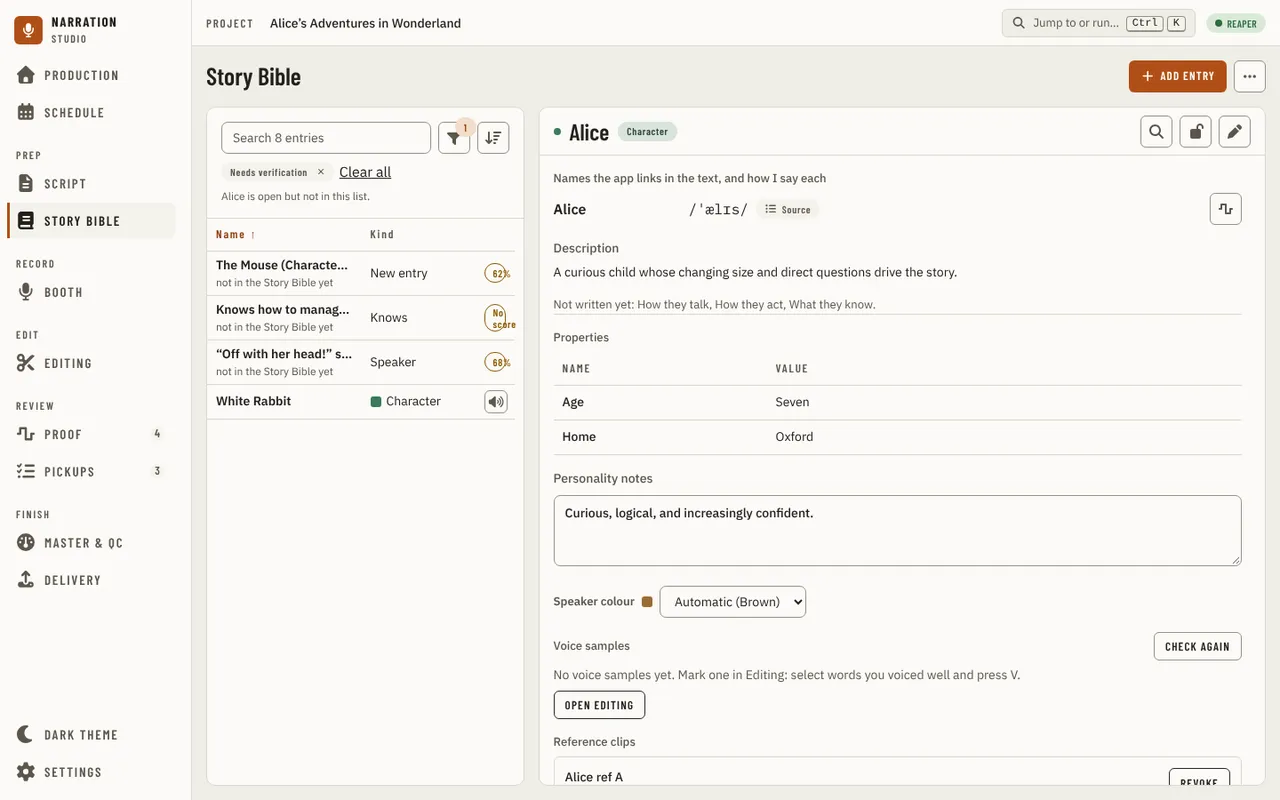
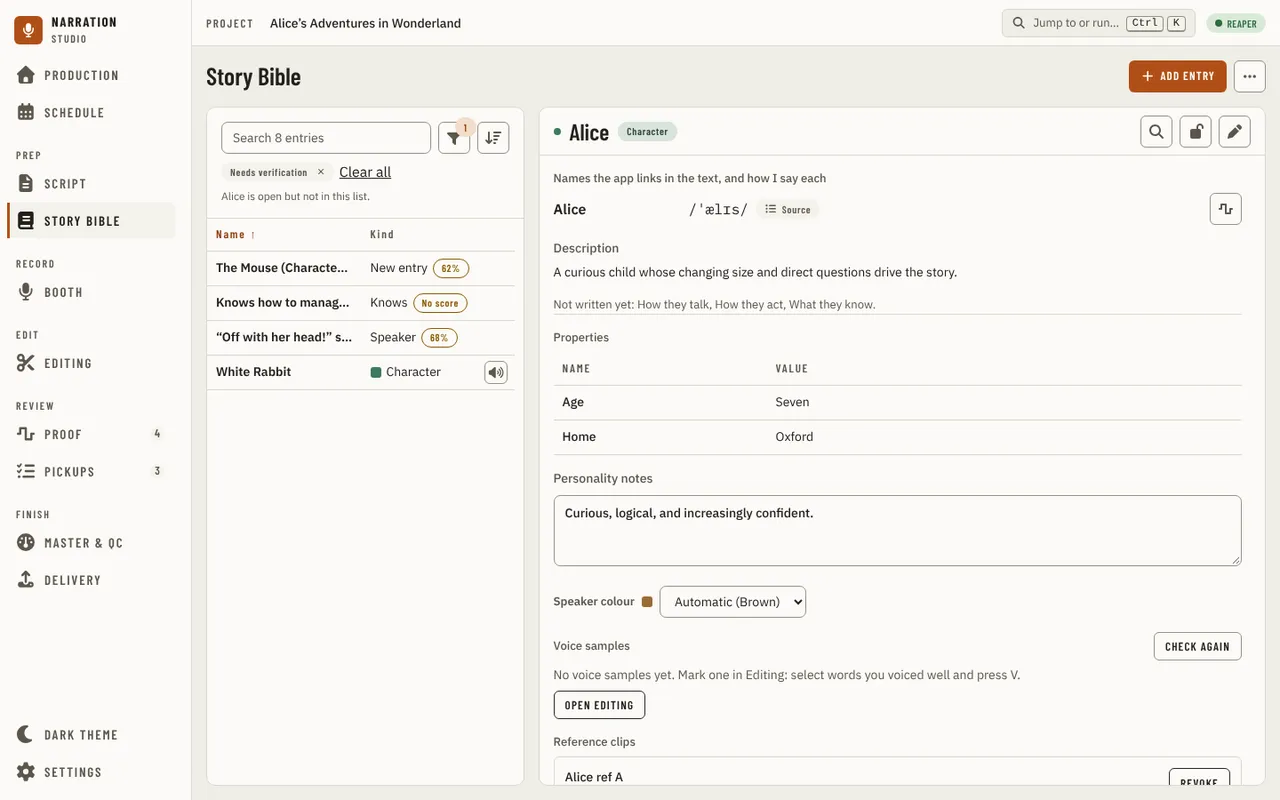
fix(storybible): suggestion rows one entry row high, suggestion card titled by its kind (#2423)

Changed region(s): [[0.1562, 0.3125, 0.4062, 0.5312]]

diff --git a/src/studio/ui/src/components/storybible/suggested/row/SuggestionRow.tsx b/src/studio/ui/src/components/storybible/suggested/row/SuggestionRow.tsx
@@ -87,46 +87,49 @@ export function SuggestionRow({ suggestion, sources, context, onGoToEvidence, li
           ) : (
             <span className="min-w-0 flex-1 basis-48 text-sm break-words">{summaryOf(suggestion.payload)}</span>
           )}
-          <ConfidenceChip suggestion={suggestion} context={context} />
-          <span className="inline-flex gap-1.5">
-            {editing ? (
-              <>
-                <IconButton action="saveAndAccept" size="sm" pending={busy} data-sug-save onClick={save} />
-                <IconButton action="cancelEdit" size="sm" onClick={() => setEditing(false)} />
-              </>
-            ) : (
-              <>
-                {verify ? (
-                  <IconButton action="accept" size="sm" pending={busy} data-sug-accept onClick={() => void decide(() => decisions.accept(suggestion.id))} />
-                ) : (
+          {/* The confidence and the decisions are one group at the card's end, at one gap, the mock's 36 px buttons (SBX-14). */}
+          <span className="ml-auto inline-flex items-center gap-2">
+            <ConfidenceChip suggestion={suggestion} context={context} />
+            <span className="inline-flex gap-1.5">
+              {editing ? (
+                <>
+                  <IconButton action="saveAndAccept" pending={busy} data-sug-save onClick={save} />
+                  <IconButton action="cancelEdit" onClick={() => setEditing(false)} />
+                </>
+              ) : (
+                <>
+                  {verify ? (
+                    <IconButton action="accept" pending={busy} data-sug-accept onClick={() => void decide(() => decisions.accept(suggestion.id))} />
+                  ) : (
+                    <IconButton
+                      action="markReviewed"
+                      label="Mark this suggestion reviewed"
+
+                      pending={busy}
+                      data-sug-reviewed
+                      onClick={() => void decide(() => decisions.review(suggestion.id))}
+                    />
+                  )}
                   <IconButton
-                    action="markReviewed"
-                    label="Mark this suggestion reviewed"
-                    size="sm"
-                    pending={busy}
-                    data-sug-reviewed
-                    onClick={() => void decide(() => decisions.review(suggestion.id))}
+                    action="editSuggestion"
+
+                    data-sug-edit
+                    onClick={() => {
+                      setText(editableText(suggestion.payload));
+                      setEditing(true);
+                    }}
                   />
-                )}
-                <IconButton
-                  action="editSuggestion"
-                  size="sm"
-                  data-sug-edit
-                  onClick={() => {
-                    setText(editableText(suggestion.payload));
-                    setEditing(true);
-                  }}
-                />
-                <IconButton
-                  action="reject"
-                  variant="danger"
-                  size="sm"
-                  pending={busy}
-                  data-sug-reject
-                  onClick={() => void decide(() => decisions.reject(suggestion.id))}
-                />
-              </>
-            )}
+                  <IconButton
+                    action="reject"
+                    variant="danger"
+
+                    pending={busy}
+                    data-sug-reject
+                    onClick={() => void decide(() => decisions.reject(suggestion.id))}
+                  />
+                </>
+              )}
+            </span>
           </span>
         </div>
         <Quotes suggestion={suggestion} onGoToEvidence={onGoToEvidence} lineLabel={lineLabel} />

diff --git a/src/studio/ui/tests/visual/storybible-suggestions.spec.ts b/src/studio/ui/tests/visual/storybible-suggestions.spec.ts
@@ -1,0 +1,60 @@
+import { expect, test, type Locator, type Page } from '@playwright/test';
+import { storybibleDrivers } from './drivers/storybible';
+import { settlePage } from './helpers/settle';
+
+// Suggestions (alignment audit SBX-14, SBX-17, SBX-22, R3SB1-4, R3SB2-7): a suggestion's list row is an entry row's height with its score
+// inside its own cell; the suggestion's card is titled like an entry, not by repeating its sentence; and a suggestion's decision buttons
+// are the 36 px icon buttons, right after its score.
+const SIZES = [
+  { name: 'desktop', width: 1440, height: 900 },
+  { name: 'small-desktop', width: 1024, height: 768 },
+  { name: 'tablet', width: 768, height: 1024 },
+];
+test.describe.configure({ timeout: 90_000 });
+
+type Box = { x: number; y: number; width: number; height: number };
+const box = async (locator: Locator): Promise<Box> => (await locator.boundingBox())!;
+
+async function load(page: Page, size: (typeof SIZES)[number], state: string) {
+  page.setDefaultTimeout(20_000);
+  await page.setViewportSize({ width: size.width, height: size.height });
+  await page.goto('/');
+  await settlePage(page);
+  await storybibleDrivers[state](page);
+}
+
+for (const size of SIZES) {
+  // loose-suggestion's driver leaves the pointer on the rail, which opens over the list in the 1024 icon rail, so it skips that width.
+  if (size.name !== 'small-desktop')
+    test(`Story Bible / a suggestion row and card match the entry's / ${size.name} ${size.width}x${size.height}`, async ({ page }) => {
+      await load(page, size, 'loose-suggestion');
+      const table = page.getByRole('table', { name: 'Story Bible entries' });
+      const loose = table.locator('[data-loose]');
+      const entry = table.locator('[data-entry-id]').first();
+      expect((await box(loose.first())).height, 'a suggestion row is an entry row’s height').toBeCloseTo((await box(entry)).height, 0);
+      for (let index = 0; index < (await loose.count()); index++) {
+        const cells = loose.nth(index).locator('td');
+        for (let cell = 0; cell < (await cells.count()); cell++) {
+          const overflow = await cells.nth(cell).evaluate((element) => element.scrollWidth - element.clientWidth);
+          expect(overflow, 'nothing spills out of a suggestion row’s cell').toBeLessThanOrEqual(0);
+        }
+      }
+      const panel = page.locator('section', { has: page.locator('[data-sug]') });
+      const heading = panel.getByRole('heading', { level: 2 });
+      const card = panel.locator('[data-sug]').first();
+      expect(await heading.evaluate((element) => getComputedStyle(element).fontSize), 'the card is titled at the entry’s size').toBe('26px');
+      const summary = (await card.locator('.basis-48').first().textContent())!.trim();
+      expect((await heading.textContent())!.trim(), 'the title does not repeat the suggestion').not.toBe(summary);
+    });
+
+  test(`Story Bible / a suggestion's decisions are 36 px, right after its score / ${size.name} ${size.width}x${size.height}`, async ({ page }) => {
+    await load(page, size, 'entry-suggestions');
+    const card = page.locator('[data-sug]').first();
+    await card.scrollIntoViewIfNeeded();
+    const reject = await box(card.locator('[data-sug-reject]'));
+    expect(reject.height, 'the decision buttons are 36 px').toBe(36);
+    const first = await box(card.locator('[data-sug-accept], [data-sug-reviewed]').first());
+    const score = await box(card.getByText(/\d+%|No score/).first());
+    expect(first.x - (score.x + score.width), 'the buttons follow the score').toBeLessThanOrEqual(8);
+  });
+}

diff --git a/src/studio/ui/src/components/storybible/suggested/import/import.test.tsx b/src/studio/ui/src/components/storybible/suggested/import/import.test.tsx
@@ -145,7 +145,7 @@ describe('reads-a-chosen-file-with-a-size-precheck', () => {
   it('refuses a file over the host limit before reading it', async () => {
     render(wrap(<ImportDialog onClose={vi.fn()} />));
     const prompts = await api.extractionImportPrompt('json');
-    await waitFor(() => expect(screen.getByRole('button', { name: 'Copy the prompt for your own LLM' })).toBeTruthy());
+    await waitFor(() => expect(screen.getByRole('button', { name: 'Copy prompt' })).toBeTruthy());
     await act(async () => void (await new Promise((r) => setTimeout(r, 20))));
     const big = new File(['{}'], 'big.json');
     Object.defineProperty(big, 'size', { value: prompts.maxBytes + 1 });
@@ -203,7 +203,7 @@ describe('copies-the-prompt-and-the-example', () => {
     const csvPrompt = await api.extractionImportPrompt('csv');
     const jsonPrompt = await api.extractionImportPrompt('json');
     render(wrap(<ImportDialog onClose={vi.fn()} />));
-    const copy = screen.getByRole('button', { name: 'Copy the prompt for your own LLM' });
+    const copy = screen.getByRole('button', { name: 'Copy prompt' });
     await waitFor(async () => {
       await userEvent.click(copy);
       expect(written.length).toBeGreaterThan(0);
@@ -221,7 +221,7 @@ describe('copies-the-prompt-and-the-example', () => {
     const toast = vi.spyOn(overlay, 'toast');
     render(wrap(<ImportDialog onClose={vi.fn()} />));
     await act(async () => void (await new Promise((r) => setTimeout(r, 20))));
-    await userEvent.click(screen.getByRole('button', { name: 'Copy the prompt for your own LLM' }));
+    await userEvent.click(screen.getByRole('button', { name: 'Copy prompt' }));
     await waitFor(() => expect(toast).toHaveBeenCalledWith('Copy failed.', { tone: 'error' }));
   });
 });
@@ -234,7 +234,7 @@ describe('example-box-switches-format', () => {
     const written: string[] = [];
     Object.defineProperty(navigator, 'clipboard', { configurable: true, value: { writeText: (t: string) => (written.push(t), Promise.resolve()) } });
     render(wrap(<ImportDialog onClose={vi.fn()} />));
-    await u.click(screen.getByRole('button', { name: 'Show the format example' }));
+    await u.click(screen.getByRole('button', { name: 'Show example' }));
     const box = await screen.findByLabelText('Format example');
     expect(box.getAttribute('tabindex')).toBe('0');
     await waitFor(() => expect(box.textContent).toBe(json.example));
@@ -242,7 +242,7 @@ describe('example-box-switches-format', () => {
     expect(box.textContent).toBe(csv.example);
     await u.click(screen.getByRole('button', { name: 'Copy the example' }));
     await waitFor(() => expect(written).toEqual([csv.example]));
-    expect(screen.getByRole('button', { name: 'Hide the format example' }).getAttribute('aria-pressed')).toBe('true');
+    expect(screen.getByRole('button', { name: 'Hide example' }).getAttribute('aria-pressed')).toBe('true');
   });
 });
 

diff --git a/src/studio/ui/src/components/storybible/suggested/panel/LooseSuggestionRows.tsx b/src/studio/ui/src/components/storybible/suggested/panel/LooseSuggestionRows.tsx
@@ -5,7 +5,7 @@ import { kindLabel, pct, summaryOf } from '../row/selectors';
 
 /**
  * Suggestions with no entry in the Story Bible yet, as rows at the head of the entry table while the Needs verification chip is on: the
- * summary, what kind of suggestion it is, "not in the Story Bible yet" and a percent (or "No score"). Choosing one tells the page, which shows
+ * summary (its hint and its spoken name add "not in the Story Bible yet"), and what kind of suggestion it is with a percent (or "No score"). Choosing one tells the page, which shows
  * its row (`SuggestionList`).
  */
 export function LooseSuggestionRows({
@@ -30,15 +30,24 @@ export function LooseSuggestionRows({
           tabStop={tabStopId === suggestion.id}
           onActivate={() => onSelect(suggestion.id)}
         >
+          {/* One line like an entry row (the table counts every row as one 39 px row), the full summary as the hint; the score sits in the
+              Kind cell, which takes the Hear button's 26 px column too, where a pill overflowed (SBX-17, R3SB2-7). */}
           <TableCell>
-            <span dir="auto" className="block truncate font-semibold">
+            {/* `relative` makes the span the screen-reader text's containing block, so that absolutely placed text is clipped with the
+                truncated summary instead of standing at the end of the full one, past the cell, and scrolling the page sideways. */}
+            <span dir="auto" className="relative block truncate font-semibold" title={`${summaryOf(suggestion.payload)} (not in the Story Bible yet)`}>
               {summaryOf(suggestion.payload)}
+              <span className="sr-only"> (not in the Story Bible yet)</span>
             </span>
-            <span className="block truncate text-[0.75rem] text-[var(--text-muted)]">not in the Story Bible yet</span>
           </TableCell>
-          <TableCell>{kindLabel(suggestion.payload)}</TableCell>
-          <TableCell>
-            <StatusBadge tone="warning" look="outline" label={suggestion.confidence === null ? 'No score' : `${pct(suggestion.confidence)}%`} />
+          <TableCell colSpan={2}>
+            <span className="flex min-w-0 items-center gap-1.5">
+              {/* As an entry row's kind, which keeps only its dot in a narrow table: the score stays, the word is still read. */}
+              <span className="min-w-0 truncate @max-[20rem]:sr-only">{kindLabel(suggestion.payload)}</span>
+              <span className="flex-none whitespace-nowrap">
+                <StatusBadge tone="warning" look="outline" label={suggestion.confidence === null ? 'No score' : `${pct(suggestion.confidence)}%`} />
+              </span>
+            </span>
           </TableCell>
         </TableRow>
       ))}

diff --git a/src/studio/ui/src/components/storybible/Guide.tsx b/src/studio/ui/src/components/storybible/Guide.tsx
@@ -39,7 +39,7 @@ import { useSuggestions } from './suggested/panel/useSuggestions';
 import { openImportDialog } from './suggested/import/openImportDialog';
 import { AcceptedClaims } from './suggested/row/AcceptedClaims';
 import { SuggestionList } from './suggested/row/SuggestionList';
-import { reviewable, summaryOf, unattached, verifyCount, verifyOf } from './suggested/row/selectors';
+import { kindLabel as suggestionKind, reviewable, unattached, verifyCount, verifyOf } from './suggested/row/selectors';
 import { useStartScan } from './suggested/scan/useStartScan';
 import { GuideDetail, type EntryCommand } from './GuideDetail';
 import { ReadNotice } from './ReadNotice';
@@ -481,7 +481,9 @@ function GuideLoaded({ notify, goToManuscript }: Pick<GuideProps, 'notify' | 'go
             {!entriesRead ? (
               <GuideDetailSkeleton />
             ) : looseChosen ? (
-              <Panel title={summaryOf(looseChosen.payload)} scroll className="min-h-0 flex-1">
+              // Titled by the kind of suggestion, not its sentence, which the card below says once; the entry's header size, so the card
+              // does not change shape between an entry and a suggestion (R3SB1-4, SBX-22).
+              <Panel title={`Suggested ${suggestionKind(looseChosen.payload).toLowerCase()}`} titleStyle="entry" scroll className="min-h-0 flex-1">
                 <SuggestionList title="Suggested" suggestions={[looseChosen]} sources={found.sources} onChanged={decided} {...links} />
               </Panel>
             ) : (

diff --git a/src/studio/ui/src/components/storybible/suggested/import/ImportDialog.tsx b/src/studio/ui/src/components/storybible/suggested/import/ImportDialog.tsx
@@ -4,6 +4,7 @@ import { overlay } from '../../../../overlay/overlayService';
 import { usePort } from '../../../../ports/usePort';
 import { useJournal } from '../../../../studio/StudioProvider';
 import { Button } from '../../../primitives/Button';
+import { Icon } from '../../../primitives/Icon';
 import { Heading } from '../../../primitives/Heading';
 import { IconButton } from '../../../primitives/IconButton';
 import { SectionLabel } from '../../../primitives/SectionLabel';
@@ -267,8 +268,15 @@ export function ImportDialog({ onClose, onChanged }: ImportDialogProps) {
             </span>
           )}
           <span className="flex-1" />
-          <IconButton action="copyPrompt" onClick={copyPrompt} />
-          <IconButton action={showExample ? 'hideExample' : 'showExample'} aria-pressed={showExample} onClick={() => setShowExample(!showExample)} />
+          {/* Words, not two bare icons at the row's end (R3SB1-13): what each does is on the button. */}
+          <Button variant="secondary" onClick={copyPrompt}>
+            <Icon name="copyPrompt" />
+            Copy prompt
+          </Button>
+          <Button variant="secondary" aria-pressed={showExample} onClick={() => setShowExample(!showExample)}>
+            <Icon name={showExample ? 'hideExample' : 'showExample'} />
+            {showExample ? 'Hide example' : 'Show example'}
+          </Button>
         </div>
         {fileProblem && (
           <p role="alert" className="text-sm" style={DANGER}>

diff --git a/src/studio/ui/src/components/storybible/suggested/panel/panel.stories.tsx b/src/studio/ui/src/components/storybible/suggested/panel/panel.stories.tsx
@@ -44,11 +44,14 @@ function Loose({ pick }: { pick?: boolean }) {
   if (!list) return null;
   return (
     <Surface>
-      <Table label="Suggestions with no entry yet">
-        <TableBody>
-          <LooseSuggestionRows suggestions={list} selectedId={pick ? (chosen ?? list[0]?.id ?? null) : chosen} onSelect={setChosen} />
-        </TableBody>
-      </Table>
+      {/* The entry table's fixed columns (Name, Kind, the Hear button) in its container, as the rows are drawn on the page. */}
+      <div className="@container">
+        <Table label="Suggestions with no entry yet" columns={['auto', '8rem', '2.75rem']}>
+          <TableBody>
+            <LooseSuggestionRows suggestions={list} selectedId={pick ? (chosen ?? list[0]?.id ?? null) : chosen} onSelect={setChosen} />
+          </TableBody>
+        </Table>
+      </div>
     </Surface>
   );
 }

diff --git a/src/studio/ui/src/components/storybible/suggested/import/import.stories.tsx b/src/studio/ui/src/components/storybible/suggested/import/import.stories.tsx
@@ -70,7 +70,7 @@ export const ExampleOpen: Story = {
   render: (args) => <Surface args={args} />,
   play: async ({ canvasElement }) => {
     const view = within(canvasElement);
-    await userEvent.click(view.getByRole('button', { name: 'Show the format example' }));
+    await userEvent.click(view.getByRole('button', { name: 'Show example' }));
     await userEvent.click(view.getByRole('button', { name: 'CSV' }));
     const box = await view.findByLabelText('Format example');
     await waitFor(() => expect(box.textContent).toContain('record,name'));

diff --git a/docs/design/design-system.md b/docs/design/design-system.md
@@ -141,6 +141,7 @@ The custom-CSS system (`.btn`, `.panel-head`/`.panel-body`, `.progressbar`, etc.
 - **Disabled interactive elements never show a hover affordance.** Use `disabled:pointer-events-none` (Tailwind) alongside `disabled:opacity-*`, not just the opacity change alone — a hover transform/background change that still fires on a disabled element reads as clickable when it isn't.
 - **The Story Bible entry's header follows `PanelHeader`'s layout** (`EntryFrame` in `storybible/GuideDetail.tsx`): the name block keeps a 12 rem basis so the actions wrap under it rather than the name and pills folding, the name, kind and status sit on one centred line, the pills never break a word, and the actions take 5 px of the padding so the header stays 50 px. In edit view the name box is as wide as the name (8 to 24 rem, `field-sizing: content`) with a resting `--border`, so the kind stays beside it and the box reads as a field (alignment audit SBX-6, SBX-7, R3SB1-10). Read-only, the kind is a plain pill, not a switched-off menu button (R3SB1-8); an entry the host could not type reads "Type not set", as in the list (SBX-21). Mark reviewed is a 36 px button like the icon buttons beside it. A save in progress shows "Saving…" before Save and marks the body `aria-busy`; the body is not dimmed, since dimmed text fails contrast (R3SB1-11). The loading skeleton draws the entry table's header strip and 39 px rows and the entry card's frame and header, so nothing moves when the entries arrive (SBX-19). When the search or filters leave out the open entry, a line under the filters says so (R3SB1-2).
 - **A field that is read-only, locked or not-yet-persisted is `disabled`, not hidden**, so the user can see what exists without being able to edit it. Story Bible entries open read-only and gain Edit/Save/Cancel controls only on request ([Story Bible](../guides/using-the-app/story-bible.md)); see `GuideDetail.tsx`.s `editingDisabled`.
+- **Story Bible suggestions** (`storybible/suggested/`): a suggestion with no entry yet is one line in the entry table, an entry row's 39 px height (the table counts rows of one height to draw only those in view), its summary truncated with the whole as its hint, and its kind and score in the Kind cell, which takes the Hear button's column too; in a narrow table the kind word is screen-reader only, as an entry's kind keeps only its dot (alignment audit SBX-17, R3SB2-7). Opened, its card is titled by its kind ("Suggested new entry") at the entry's 26 px, not by its sentence, which the card says once (R3SB1-4, SBX-22). A suggestion's score and decisions are one group at the card's end, the mock's 36 px buttons (SBX-14). The import dialog's prompt and example are labelled buttons, **Copy prompt** and **Show example**, where the mock draws two bare icons at the row's end (R3SB1-13).
 - **A grid inside a `SlideOver` never switches on a viewport breakpoint** (`sm:`, `min-[…]`): the panel is 20 rem wide at every window width, so a breakpoint put four `StatTile`s into 300 px on a wide window (alignment audit XPR2-1). Size it for the panel: the recording check's figures are two tiles a row, with a unit such as `/min` in `StatTile`'s `unit` rather than in the value.
 - **A line that points to another source of pickups or findings is a ruled row, not a dashed card**: a dashed `InsetCard` means a placeholder, and beside solid cards it reads as an error (the recording check's "Repeated reads" and "Pickup list" rows, `production/pickupSourceRow.ts`).
 - **A non-destructive "peek at something else" action is a `SlideOver` primitive, never a navigation that replaces the current view's state.** See `script/ScriptPage.tsx`'s Chapters & Search overlay and `GuideDetail.tsx`'s "Review entry" overlay — both exist specifically so switching context doesn't discard an in-progress edit.

diff --git a/docs/guides/using-the-app/story-bible.md b/docs/guides/using-the-app/story-bible.md
@@ -130,7 +130,7 @@ Wikimedia Commons.
 you have: what a character says, does and knows, and details. The first time, when no analysis tool is installed, it
 asks whether to use the basic scan now, download better analysis, or import from a file instead; nothing downloads
 until you agree. **Import entries** opens a dialog headed Story Bible, Import entries, with Cancel at its right: a CSV or JSON file of entries you made elsewhere, shown as what it would add
-before it adds anything. Nothing builds the Story Bible on its own, not even a manuscript import. The quoted lines are
+before it adds anything. **Copy prompt** copies the prompt to give your own LLM with the manuscript, and **Show example** shows the format it answers in. Nothing builds the Story Bible on its own, not even a manuscript import. The quoted lines are
 found on their own, though: after a manuscript import and at the end of every scan, each quoted line is matched to a
 speaker where a speech tag names an entry whose type speaks ("Ada said"). Such an entry's name within 70 characters of
 the line is suggested too, as a weaker guess. A name still in Needs Review is never a speaker. Every one of these is a
@@ -143,7 +143,7 @@ or off for a type finds them again everywhere. Your own corrections stay.
 
 A suggestion the app is sure of is accepted on its own; one it is not sure of waits for you. **Needs verification**
 in the filters shows only the entries with suggestions waiting, and lists above them the suggestions that have no
-entry yet. An entry with suggestions waiting has a **Verify** count under **Show** in the **Filter** menu, its accepted facts, and a **Suggested**
+entry yet, each on one line with its kind and score; pressing one opens it as **Suggested new entry** (or the kind it is). An entry with suggestions waiting has a **Verify** count under **Show** in the **Filter** menu, its accepted facts, and a **Suggested**
 list where you accept, edit or reject each one, with the quote it rests on (press the quote to go to the line in the
 Script; a quote whose line the book no longer has is plain text that says so). An entry cannot be marked reviewed while it has suggestions waiting.
 
